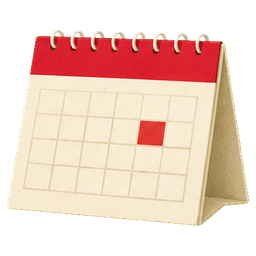
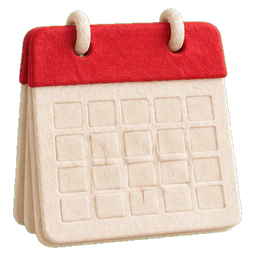
41 pictos feutrés (volume doux, mat, palette neutre) détourés en chroma, sans rond ; pictos de la barre dans la même matière (immeuble de Mochi) ; plus de bande claire en haut de la scène ; test pièce feutrée grande fenêtre (/proto-da2?v=feutre)

diff --git a/src/components/task-icon.js b/src/components/task-icon.js
@@ -64,8 +64,7 @@ const BY_EMOJI = {
 // décision Jeanne 4 nov 2026 : D = images dans la matière de Mochi (ChatGPT) pour ce qui se fait ; les clés sans image
 // tombent sur le trait (B : trait sur pastille) en attendant leur lot. Metro : pas de require dynamique → table explicite.
 export const IMG = {
-  dish: require('../../assets/icones/dish.png'), cart: require('../../assets/icones/cart.png'), basket: require('../../assets/icones/basket.png'),
-  broom: require('../../assets/icones/broom.png'), trash: require('../../assets/icones/trash.png'), calendar: require('../../assets/icones/calendar.png'),
+  dish: require('../../assets/icones/dish.png'), cart: require('../../assets/icones/cart.png'), basket: require('../../assets/icones/basket.png'), broom: require('../../assets/icones/broom.png'), trash: require('../../assets/icones/trash.png'), calendar: require('../../assets/icones/calendar.png'), pan: require('../../assets/icones/pan.png'), shirt: require('../../assets/icones/shirt.png'), bed: require('../../assets/icones/bed.png'), bath: require('../../assets/icones/bath.png'), box: require('../../assets/icones/box.png'), file: require('../../assets/icones/file.png'), mail: require('../../assets/icones/mail.png'), list: require('../../assets/icones/list.png'), suitcase: require('../../assets/icones/suitcase.png'), dog: require('../../assets/icones/dog.png'), leaf: require('../../assets/icones/leaf.png'), cat: require('../../assets/icones/cat.png'), pin: require('../../assets/icones/pin.png'), baby: require('../../assets/icones/baby.png'), wrench: require('../../assets/icones/wrench.png'), car: require('../../assets/icones/car.png'), pill: require('../../assets/icones/pill.png'), gift: require('../../assets/icones/gift.png'), pizza: require('../../assets/icones/pizza.png'), coins: require('../../assets/icones/coins.png'), bulb: require('../../assets/icones/bulb.png'), key: require('../../assets/icones/key.png'), phone: require('../../assets/icones/phone.png'), stetho: require('../../assets/icones/stetho.png'), home: require('../../assets/icones/home.png'), cake: require('../../assets/icones/cake.png'), plane: require('../../assets/icones/plane.png'), party: require('../../assets/icones/party.png'), grad: require('../../assets/icones/grad.png'), ring: require('../../assets/icones/ring.png'), mask: require('../../assets/icones/mask.png'), ball: require('../../assets/icones/ball.png'), coffee: require('../../assets/icones/coffee.png'), ticket: require('../../assets/icones/ticket.png'), generic: require('../../assets/icones/generic.png'), user: require('../../assets/icones/user.png'),
 };
 export const keyFor = emoji => BY_EMOJI[String(emoji || '').trim()] || (ICONS[emoji] ? emoji : 'generic');
 export const iconFor = emoji => ICONS[BY_EMOJI[String(emoji || '').trim()] || (ICONS[emoji] ? emoji : 'generic')];
@@ -75,7 +74,8 @@ export function TaskIcon({ emoji, icon, size = 20, color, sw = 1.9, style, pad =
   const T = useTokens();
   const key = icon || keyFor(emoji);
   // décision Jeanne 5 nov 2026 : les pastilles-images (objet dans un rond doux)
-  if (image && IMG[key]) return <View style={[{ width: size + 16, height: size + 16, borderRadius: (size + 16) / 2, backgroundColor: T.seg, alignItems: 'center', justifyContent: 'center', overflow: 'hidden' }, style]}><Image source={IMG[key]} style={{ width: size + 8, height: size + 8 }} resizeMode="contain" accessibilityIgnoresInvertColors /></View>;
+  // pictos VALIDÉS par Jeanne (5 nov 2026) : les objets du deuxième test, détourés, SANS rond (« mais pas dans le rond »)
+  if (image && IMG[key]) return <Image source={IMG[key]} style={[{ width: size + 14, height: size + 14 }, style]} resizeMode="contain" accessibilityIgnoresInvertColors />;
   const d = ICONS[key] || ICONS.generic;
   const box = pad ? size + 16 : size;
   return (

diff --git a/app/proto-da2.js b/app/proto-da2.js
@@ -14,7 +14,7 @@ import { useTokens, type, layout } from '../src/theme-v3';
 import copy from '../src/data/copy.json';
 
 const PAPIER = { night: false, bg: '#4E4660', ink: '#F4EFE8', muted: '#B8AFC4', line: 'rgba(244,239,232,0.16)', seg: 'rgba(244,239,232,0.16)', accent: '#D9483E', ok: '#BFD94A', scene: { wall: '#4E4660', floor: '#5A5068', shadow: 'rgba(0,0,0,0.25)', vase: '#EAD6BC', moon: null, lamp: '#F7DFA8' } };
-const DECOR = { mochi: require('../assets/proto-da/piece-mochi.png'), papier: require('../assets/proto-da/piece-papier.png'), p1: require('../assets/proto-da/iter1/piece.png'), p2: require('../assets/proto-da/iter2/piece.png'), p3: require('../assets/proto-da/iter3/piece.png'), g: require('../assets/proto-da/graph/piece.png') };
+const DECOR = { mochi: require('../assets/proto-da/piece-mochi.png'), papier: require('../assets/proto-da/piece-papier.png'), p1: require('../assets/proto-da/iter1/piece.png'), p2: require('../assets/proto-da/iter2/piece.png'), p3: require('../assets/proto-da/iter3/piece.png'), g: require('../assets/proto-da/graph/piece.png'), feutre: require('../assets/maison/test-feutre.png') };
 const GRAPH = { dish: require('../assets/proto-da/graph/icones/dish.png'), cart: require('../assets/proto-da/graph/icones/cart.png'), calendar: require('../assets/proto-da/graph/icones/calendar.png'), basket: require('../assets/proto-da/graph/icones/basket.png') };
 const MOCHIS = { g: require('../assets/proto-da/graph/mochi.png'), p1: require('../assets/proto-da/iter1/mochi.png'), p2: require('../assets/proto-da/iter2/mochi.png'), p3: require('../assets/proto-da/iter3/mochi.png') };
 // trois itérations de la DA papier (5 nov 2026), chacune plus près de la référence de Jeanne
@@ -40,7 +40,7 @@ export default function ProtoDa2() {
   return (
     <View style={{ flex: 1, backgroundColor: T.bg }}>
       <View style={{ position: 'absolute', top: 0, left: 0, right: 0 }}>
-        <Scene T={T} stage="mochi" lvl={2} height={layout.scene + 40} topInset={insets.top + 44} backdrop={it ? DECOR[v] : papier ? DECOR.papier : undefined} mochiSource={it ? MOCHIS[v] : papier ? MOCHI_PAPIER : m ? PAPIERS[m] : null} mochiBottom={papier ? 34 : 30} />
+        <Scene T={T} stage="mochi" lvl={2} height={layout.scene + 40} topInset={insets.top + 44} backdrop={it ? DECOR[v] : papier ? DECOR.papier : v === 'feutre' ? DECOR.feutre : undefined} mochiSource={it ? MOCHIS[v] : papier ? MOCHI_PAPIER : m ? PAPIERS[m] : null} mochiBottom={papier ? 34 : 30} />
       </View>
       <View style={{ paddingTop: insets.top + 10, paddingHorizontal: layout.x, flexDirection: 'row', alignItems: 'center', gap: 10 }}>
         <Label T={T} style={{ flex: 1, color: T.ink }}>Jeudi 5 novembre</Label>

diff --git a/src/components/TabBar.js b/src/components/TabBar.js
@@ -1,7 +1,7 @@
 // TabBar v3 « l'instrument » (4 nov 2026) : hairline en haut, icônes fines, étiquettes en phrase normale,
 // + plat couleur accent ; suit le mode jour / nuit (theme-v3). Accueil · Planning · [+] · Balance · Budget
 import React from 'react';
-import { View, Text, Pressable, StyleSheet } from 'react-native';
+import { View, Text, Pressable, StyleSheet, Image } from 'react-native';
 import Svg, { Path } from 'react-native-svg';
 import { useSafeAreaInsets } from 'react-native-safe-area-context';
 import { useTokens } from '../theme-v3';
@@ -13,6 +13,8 @@ const ICONS = {
   balance: 'M12 4v16M5 7h14M5 7l-2.5 6a3.5 3.5 0 007 0L7 7M19 7l-2.5 6a3.5 3.5 0 007 0L21 7M8 20h8',
   budget: 'M3 8a2 2 0 012-2h14a2 2 0 012 2v9a2 2 0 01-2 2H5a2 2 0 01-2-2V8zM3 10h18M16 15h2',
 };
+// pictos en images (décision Jeanne 5 nov 2026 : « Accueil, Planning… sont des pictos aussi »)
+const TAB_IMG = { index: require('../../assets/icones/tabs/building.png'), planning: require('../../assets/icones/tabs/calendar.png'), balance: require('../../assets/icones/tabs/balance.png'), budget: require('../../assets/icones/tabs/wallet.png') };
 const LABELS = { index: copy.tabs.home, planning: copy.tabs.planning, balance: copy.tabs.balance, budget: copy.tabs.budget };
 const ORDER = ['index', 'planning', 'fab', 'balance', 'budget'];
 
@@ -36,7 +38,7 @@ export default function TabBar({ state, navigation, onFab }) {
         const c = on ? T.ink : T.muted;
         return (
           <Pressable key={name} onPress={() => navigation.navigate(name)} style={s.tab}>
-            <Svg width={21} height={21} viewBox="0 0 24 24" fill="none"><Path d={ICONS[name]} stroke={c} strokeWidth={on ? 2.1 : 1.9} strokeLinecap="round" strokeLinejoin="round" /></Svg>
+            <Image source={TAB_IMG[name]} style={{ width: 26, height: 26, opacity: on ? 1 : 0.5 }} resizeMode="contain" accessibilityIgnoresInvertColors />
             <Text style={{ fontSize: 11, color: c, fontWeight: on ? '600' : '400' }}>{LABELS[name]}</Text>
           </Pressable>
         );

diff --git a/src/components/mochi/scene.js b/src/components/mochi/scene.js
@@ -71,7 +71,7 @@ export function Scene({ T, stage = 'mini', mood, lvl = 1, away = false, height =
       {backdrop ? <Image source={backdrop} style={{ position: 'absolute', left: 0, top: shiftY, width: SW, height: hh }} resizeMode="cover" accessibilityIgnoresInvertColors /> : null}
       {backdrop ? null : <S l={0} r={0} b={0} h={fl2} c={c.floor} />}
 
-      {topInset ? <LinearGradient colors={night ? ['rgba(30,24,40,0.55)', 'rgba(30,24,40,0)'] : ['rgba(245,241,234,0.75)', 'rgba(245,241,234,0)']} style={{ position: 'absolute', left: 0, right: 0, top: 0, height: topInset + 28 }} pointerEvents="none" /> : null}
+      {topInset && night ? <LinearGradient colors={['rgba(30,24,40,0.45)', 'rgba(30,24,40,0)']} style={{ position: 'absolute', left: 0, right: 0, top: 0, height: topInset + 28 }} pointerEvents="none" /> : null}
       {/* fondu entre la pièce et l'écran (Jeanne 5 nov : « au lieu d'une coupure nette, un fondu ») */}
       <LinearGradient colors={[T.bg + '00', T.bg]} style={{ position: 'absolute', left: 0, right: 0, bottom: 0, height: 64 }} pointerEvents="none" />
       {/* tapis à plat, sous Mochi */}
